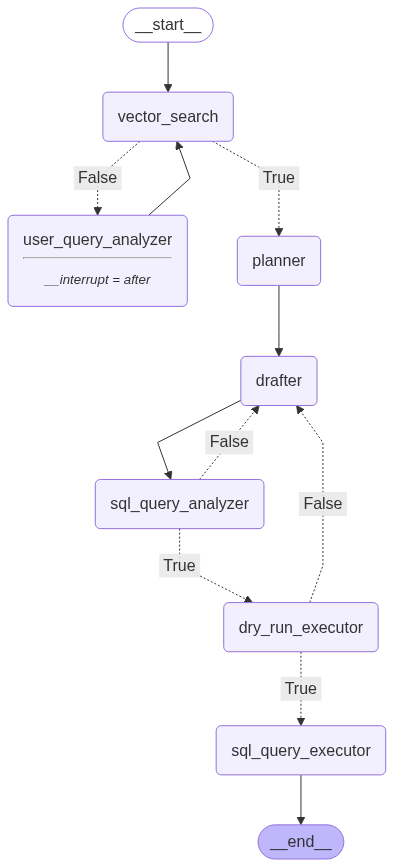
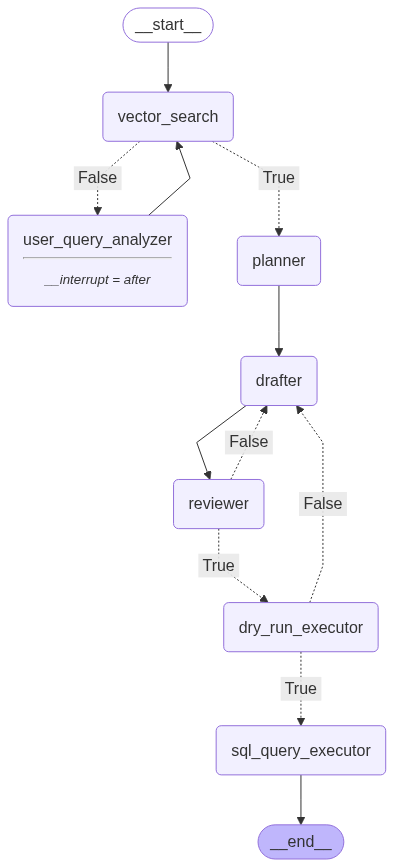
stopped query revisions

diff --git a/data_extractor/src/data_extractor_agent.py b/data_extractor/src/data_extractor_agent.py
@@ -3,7 +3,9 @@ import sqlite3
 
 from dotenv import load_dotenv
 from langgraph.checkpoint.sqlite import SqliteSaver
+from langgraph.errors import GraphRecursionError
 from langgraph.graph import StateGraph
+from pyodbc import ProgrammingError
 
 from .agent_state import AgentState
 from .nodes import planner_llm, dry_run_executor
@@ -53,26 +55,34 @@ def run_agent(task: str, session_id: str) -> str:
 
     # draw(agent)
 
-    thread = {"configurable": {"thread_id": "1"}}
-    agent.graph.invoke({'task': task}, config=thread)
-    return agent.graph.get_state(thread).values[
-        'user_query_clarification']  # todo - how to find from which state to return the response? use fixed state variable to know it?
+    config = {"configurable": {"thread_id": "1"}, "recursion_limit": Constants.RECURSION_LIMIT}
+    agent.graph.invoke({'task': task}, config=config)
+    return agent.graph.get_state(config).values['user_query_clarification']
 
 
 def stream_agent(task: str, session_id: str):
     sqlite_saver = create_memory_db(session_id)
     agent = Agent(sqlite_saver)
 
-    thread = {"configurable": {"thread_id": "1"}}
+    # draw(agent)
 
-    for chunk in agent.graph.stream({'task': task}, config=thread, stream_mode=["custom", "values"]):
-        data = chunk[-1]
-        if Constants.STATE_PROGRESS_UPDATE_KEY in data:
-            yield {"type": "progress", "content": data[Constants.STATE_PROGRESS_UPDATE_KEY]}
-        if "user_query_clarification" in data:
-            yield {"type": "response", "content": data["user_query_clarification"]}
-        if "final_result" in data:
-            yield {"type": "response", "content": data["final_result"]}
+    config = {"configurable": {"thread_id": "1"}, "recursion_limit": Constants.RECURSION_LIMIT}
+    try:
+        for chunk in agent.graph.stream({'task': task}, config=config, stream_mode=["custom", "values"]):
+            data = chunk[-1]
+            if Constants.STATE_PROGRESS_UPDATE_KEY in data:
+                yield {"type": "progress", "content": data[Constants.STATE_PROGRESS_UPDATE_KEY]}
+            if "user_query_clarification" in data:
+                yield {"type": "response", "content": data["user_query_clarification"]}
+            if "final_result" in data:
+                final_result_ = data["final_result"]
+                yield {"type": "response", "content": "No results found!" if len(final_result_) == 0 else final_result_}
+    except GraphRecursionError as e:
+        print(f"{e}")
+        yield {"type": "error", "content": "Your maximum conversation limit reached!"}
+    except ProgrammingError as e:
+        print(f"{e}")
+        yield {"type": "error", "content": "Something went wrong! Please try again!!"}
 
 
 def create_memory_db(session_id: str) -> SqliteSaver:

diff --git a/data_extractor/src/nodes/sql_query_drafter_llm.py b/data_extractor/src/nodes/sql_query_drafter_llm.py
@@ -1,5 +1,6 @@
 from langchain_core.prompts import ChatPromptTemplate
 from langgraph.config import get_stream_writer
+from langgraph.errors import GraphRecursionError
 
 from ..agent_state import AgentState
 from ..llm import model
@@ -11,6 +12,11 @@ def draft(state: AgentState) -> dict:
     writer = get_stream_writer()
     writer({Constants.STATE_PROGRESS_UPDATE_KEY: "Drafting SQL query..."})
     print(f"Drafting SQL query for state: {state['enhanced_user_query']}")
+
+    current_draft_revision = state.get('current_draft_revision', 0) + 1
+    if current_draft_revision > Constants.MAX_DRAFT_REVISION:
+        raise GraphRecursionError(f"Exceeded maximum draft revisions: {Constants.MAX_DRAFT_REVISION}")
+
     # Collect all document page contents into a list
     db_schema = [doc.page_content for doc, _ in state['vector_results']]
     if 'is_draft_query_valid' not in state or state['is_draft_query_valid'] is None or state[
@@ -25,5 +31,6 @@ def draft(state: AgentState) -> dict:
              "identified_issues": state['reason_for_draft_revision']})
 
     response = model().invoke(prompt)
+
     writer({Constants.STATE_PROGRESS_UPDATE_KEY: "SQL query draft complete."})
-    return {'sql_query_draft': response.content}
+    return {'sql_query_draft': response.content, 'current_draft_revision': current_draft_revision}

diff --git a/data_extractor/src/nodes/user_query_analyzer_llm.py b/data_extractor/src/nodes/user_query_analyzer_llm.py
@@ -1,5 +1,6 @@
 from langchain_core.prompts import ChatPromptTemplate
 from langgraph.config import get_stream_writer
+from langgraph.errors import GraphRecursionError
 
 from ..agent_state import AgentState, Conversation
 from ..llm import model
@@ -10,6 +11,10 @@ from ..utils.constants import Constants
 def analyze(state: AgentState) -> dict[str, str]:
     writer = get_stream_writer()
     writer({Constants.STATE_PROGRESS_UPDATE_KEY: "Framing question for user query clarification..."})
+
+    current_user_query_revision = state.get('current_user_query_revision', 0) + 1
+    if current_user_query_revision > Constants.USER_QUERY_MAX_REVISIONS:
+        raise GraphRecursionError(f"Exceeded maximum query revisions: {Constants.USER_QUERY_MAX_REVISIONS}")
 
     schema_summary = ''
     # Read schema summary from the relative path
@@ -31,7 +36,8 @@ def analyze(state: AgentState) -> dict[str, str]:
 
     writer({Constants.STATE_PROGRESS_UPDATE_KEY: "Framed question for user query clarification..."})
 
-    return {'user_query_clarification': response.content, 'conversation_history': history}
+    return {'user_query_clarification': response.content, 'conversation_history': history,
+            'current_user_query_revision': current_user_query_revision}
 
 
 def format_conversation(conversation: list[Conversation]) -> str:

diff --git a/data_extractor/ui.py b/data_extractor/ui.py
@@ -8,7 +8,7 @@ from src.data_extractor_agent import stream_agent
 
 nest_asyncio.apply()
 load_dotenv()
-st.title("Chat with your database")
+st.title("Chat with your data")
 
 # Initialize chat history and agent
 if "messages" not in st.session_state:
@@ -46,6 +46,8 @@ if prompt := st.chat_input("What do you want to see in your data..."):
                     progress_update = chunk["content"]
                     if progress_update:
                         placeholder.text(progress_update)
+                elif chunk.get("type") == "error":
+                    placeholder.markdown(chunk["content"])
                 elif chunk.get("type") == "response":
                     progress_update = ''
                     response = chunk["content"]

diff --git a/data_extractor/src/prompts.py b/data_extractor/src/prompts.py
@@ -117,6 +117,8 @@ GETDATE() for date parsing (if needed)
 
 TOP for limiting results
 
+Do not include the id columns(primary and foreign keys) in the select query.
+
 Use fully qualified column references where needed (e.g., agreements.status)
 
 Always use fully qualified table names with the schema name. (e.g., SELECT * FROM schema_name.table_name)

diff --git a/data_extractor/src/agent_state.py b/data_extractor/src/agent_state.py
@@ -38,5 +38,6 @@ class AgentState(TypedDict, total=False):
     sql_query_draft: str
     is_draft_query_valid: bool
     reason_for_draft_revision: str
-    current_user_query_revision: int  # ??
+    current_user_query_revision: int
+    current_draft_revision: int
     final_result: list[dict]

diff --git a/data_extractor/src/utils/constants.py b/data_extractor/src/utils/constants.py
@@ -1,4 +1,6 @@
 class Constants:
     MINIMUM_VECTOR_SCORE = 0.6
-    USER_QUERY_MAX_REVISIONS = 2
+    USER_QUERY_MAX_REVISIONS = 5
+    MAX_DRAFT_REVISION = 3
+    RECURSION_LIMIT = 10
     STATE_PROGRESS_UPDATE_KEY = "progress_update"

diff --git a/README.md b/README.md
@@ -5,3 +5,6 @@
 Improvements:
 1. Use SystemMessage, HumanMessage, and AIMessage from langchain.schema instead of custom classes.
 2. To avoid dumb questions from users, add validators at each LLM call(or at-least at the vector search validator) to validate the input.
+3. Adjust the prompt to exclude the id columns(PK, FK) in the select query
+4. Once max revision is reached for the drafter, respond back to the user with Sorry message
+5. 
